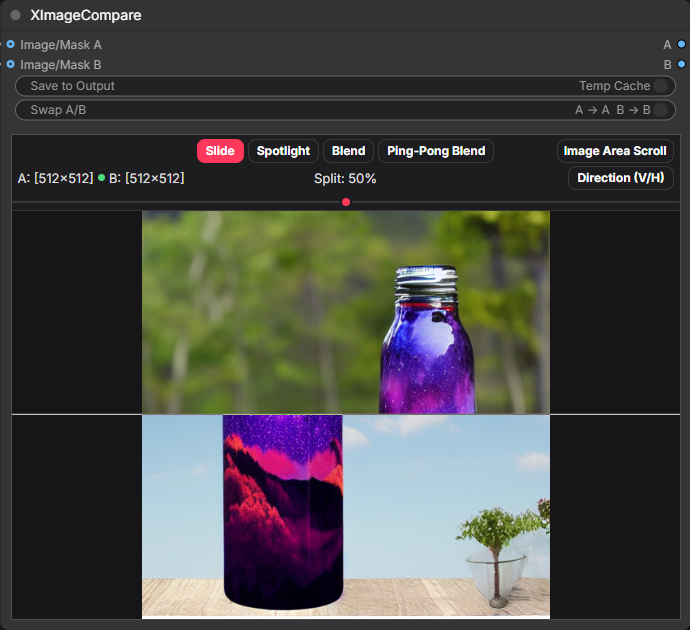
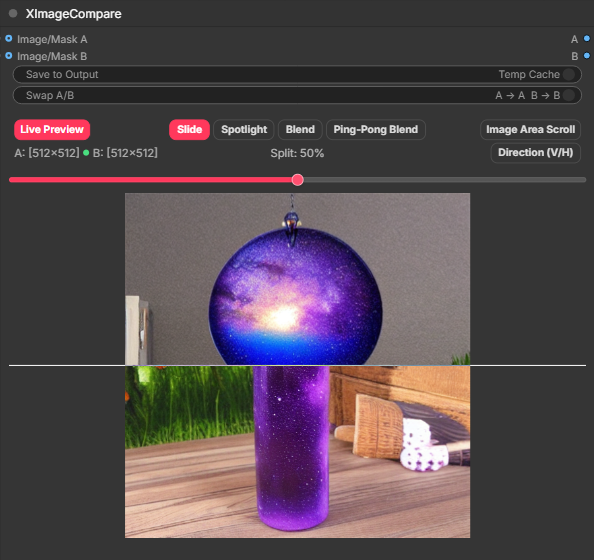
更新

diff --git a/web/ximagecompare_extension.js b/web/ximagecompare_extension.js
@@ -291,6 +291,12 @@ function applyNodeLocale(state) {
         }
     }
 
+    // 实时预览按钮文字
+    if (state.livePreviewBtn) {
+        state.livePreviewBtn.textContent = t(LIVE_PREVIEW_KEY, LIVE_PREVIEW_FB);
+        state.livePreviewBtn.title = t(LIVE_PREVIEW_TIP_KEY, LIVE_PREVIEW_TIP_FB);
+    }
+
     // 滑动方向按钮（固定文字，不随方向变化）
     if (state.slideDirBtn) {
         state.slideDirBtn.textContent = t(SLIDE_DIR_TOGGLE_KEY, SLIDE_DIR_TOGGLE_FB);

diff --git a/Changelog.md b/Changelog.md
@@ -102,7 +102,7 @@
         - 清理所有模型
         - 清理工作流节点结果缓存
         - 清理所有模型 + 清理工作流节点结果缓存
-    - 与 ComfyUI-Manager 的手动清理按钮等效
+    - 与 `ComfyUI-Manager` 的手动清理按钮等效
 
 ### 9. 🪛 调整 `XStringGet` 与 XDataHub 配套的 文本数据接收节点
 `♾️ Xz3r0/XDataHub`
@@ -215,7 +215,7 @@
         - Clear all models
         - Clear workflow node result cache
         - Clear all models + Clear workflow node result cache
-    - Equivalent to ComfyUI-Manager's manual cleanup button
+    - Equivalent to `ComfyUI-Manager`'s manual cleanup button
 
 ### 9. 🪛 Adjusted `XStringGet` Text Data Receiver Node for XDataHub
 `♾️ Xz3r0/XDataHub`